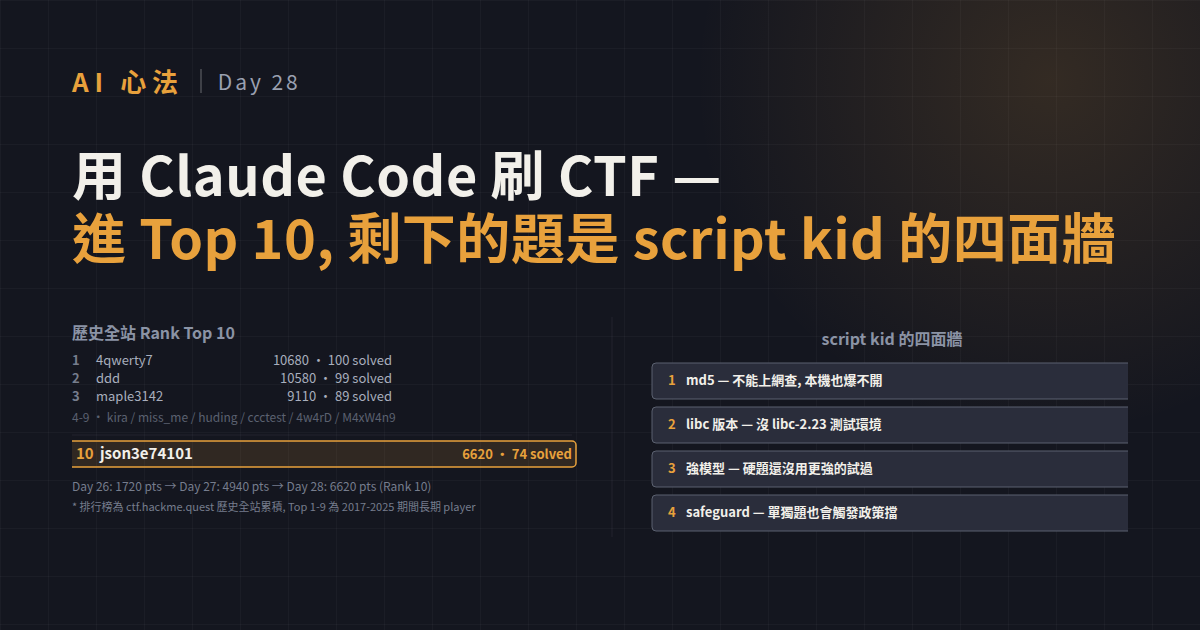
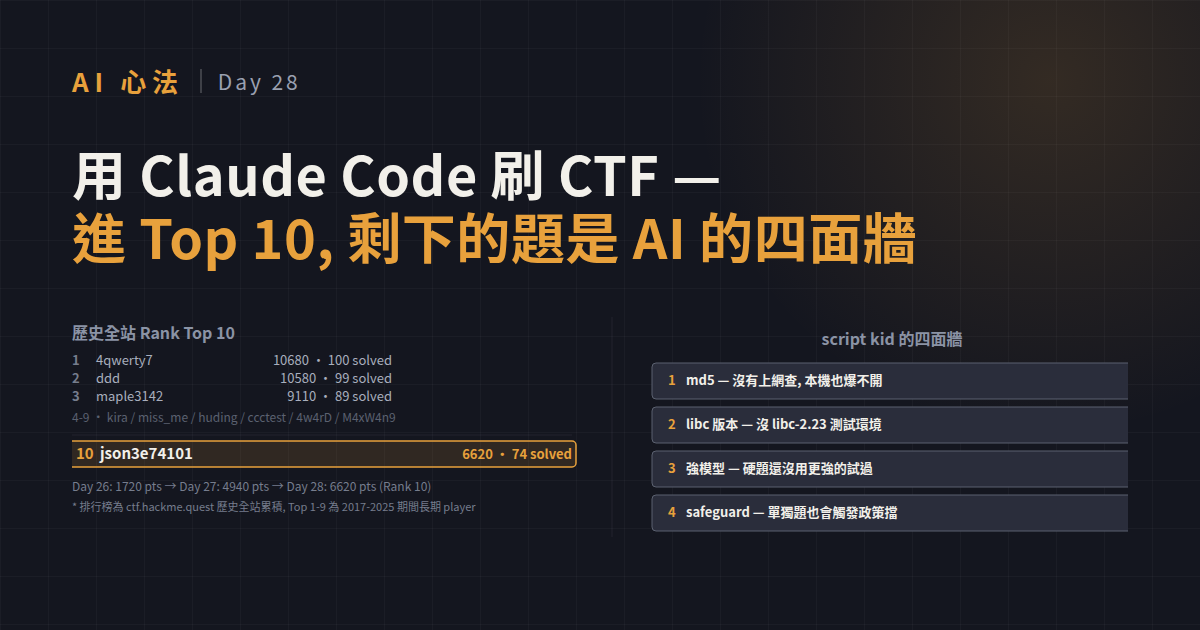
ironman/day28: cover 文案微調
- 「script kid 的四面牆」→「AI 的四面牆」(封面標題不展開術語)
- 「md5 不能上網查」→「md5 沒有上網查」(配內文觀察語氣)

Changed region(s): [[0.5242, 0.3317, 0.925, 0.4222], [0.6167, 0.573, 0.6475, 0.6333]]

diff --git a/05-notes/ironman/assets/day26-30/cover-day28.html b/05-notes/ironman/assets/day26-30/cover-day28.html
@@ -23,7 +23,7 @@ text{font-family:"Noto Sans CJK TC",sans-serif}
 <div class="wrap">
   <div class="top"><span class="mark">AI 心法</span><span class="bar"></span><span class="day">Day 28</span></div>
   <div>
-    <h1>用 Claude Code 刷 CTF —<br><em>進 Top 10, 剩下的題是 script kid 的四面牆</em></h1>
+    <h1>用 Claude Code 刷 CTF —<br><em>進 Top 10, 剩下的題是 AI 的四面牆</em></h1>
   </div>
   <div class="chartwrap">
   <svg width="1056" height="240" viewBox="0 0 1056 240">
@@ -70,7 +70,7 @@ text{font-family:"Noto Sans CJK TC",sans-serif}
     <!-- Wall 1: md5 -->
     <rect x="580" y="46" width="480" height="36" rx="4" fill="#2a2d3b" stroke="#5b6170" stroke-width="1"/>
     <text x="596" y="68" fill="#e8a13c" font-size="13" font-weight="900">1</text>
-    <text x="614" y="68" fill="#f2f0ea" font-size="13" font-weight="700">md5 — 不能上網查, 本機也爆不開</text>
+    <text x="614" y="68" fill="#f2f0ea" font-size="13" font-weight="700">md5 — 沒有上網查, 本機也爆不開</text>
 
     <!-- Wall 2: libc -->
     <rect x="580" y="90" width="480" height="36" rx="4" fill="#2a2d3b" stroke="#5b6170" stroke-width="1"/>
